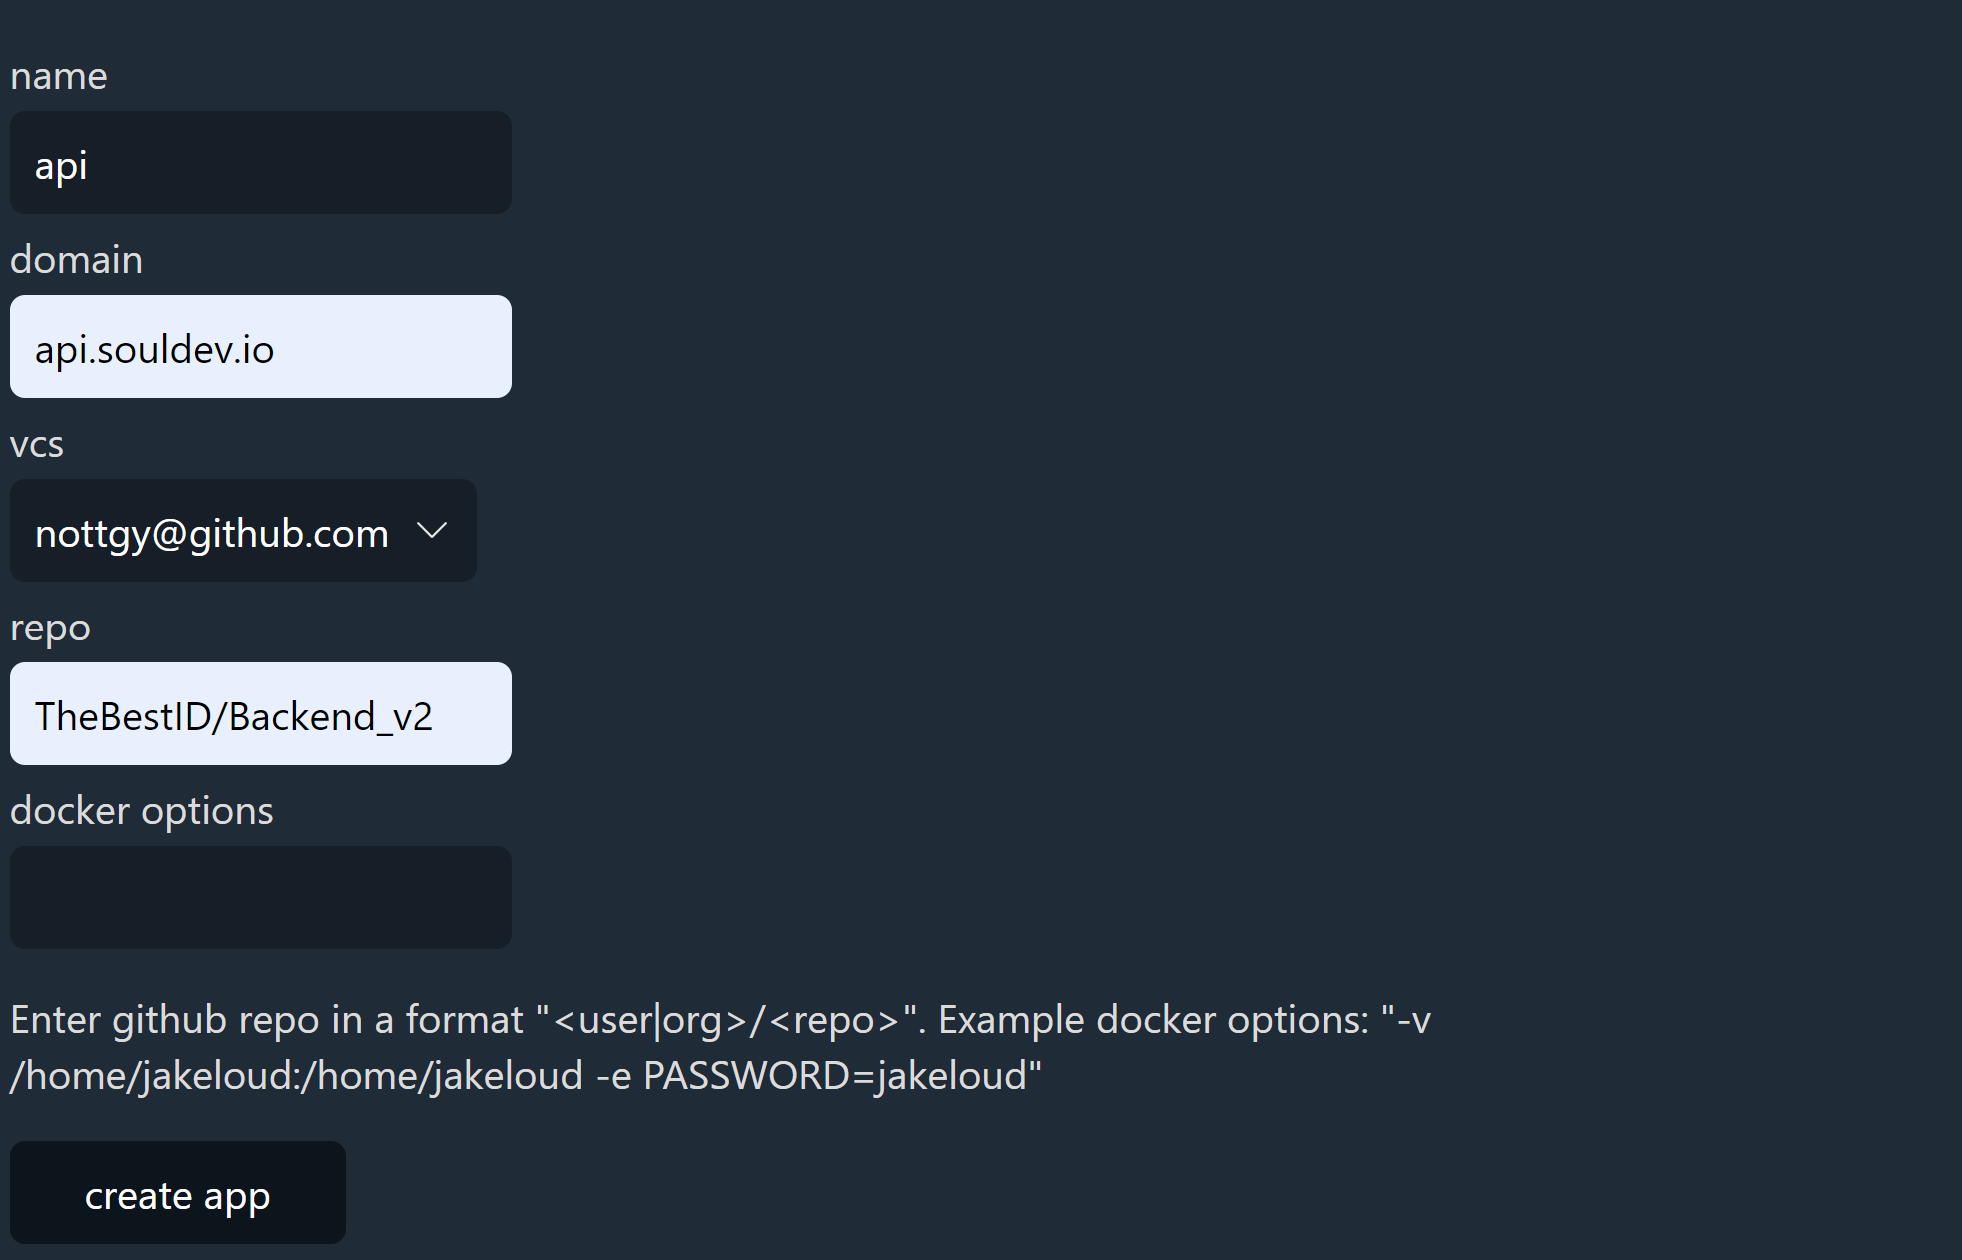
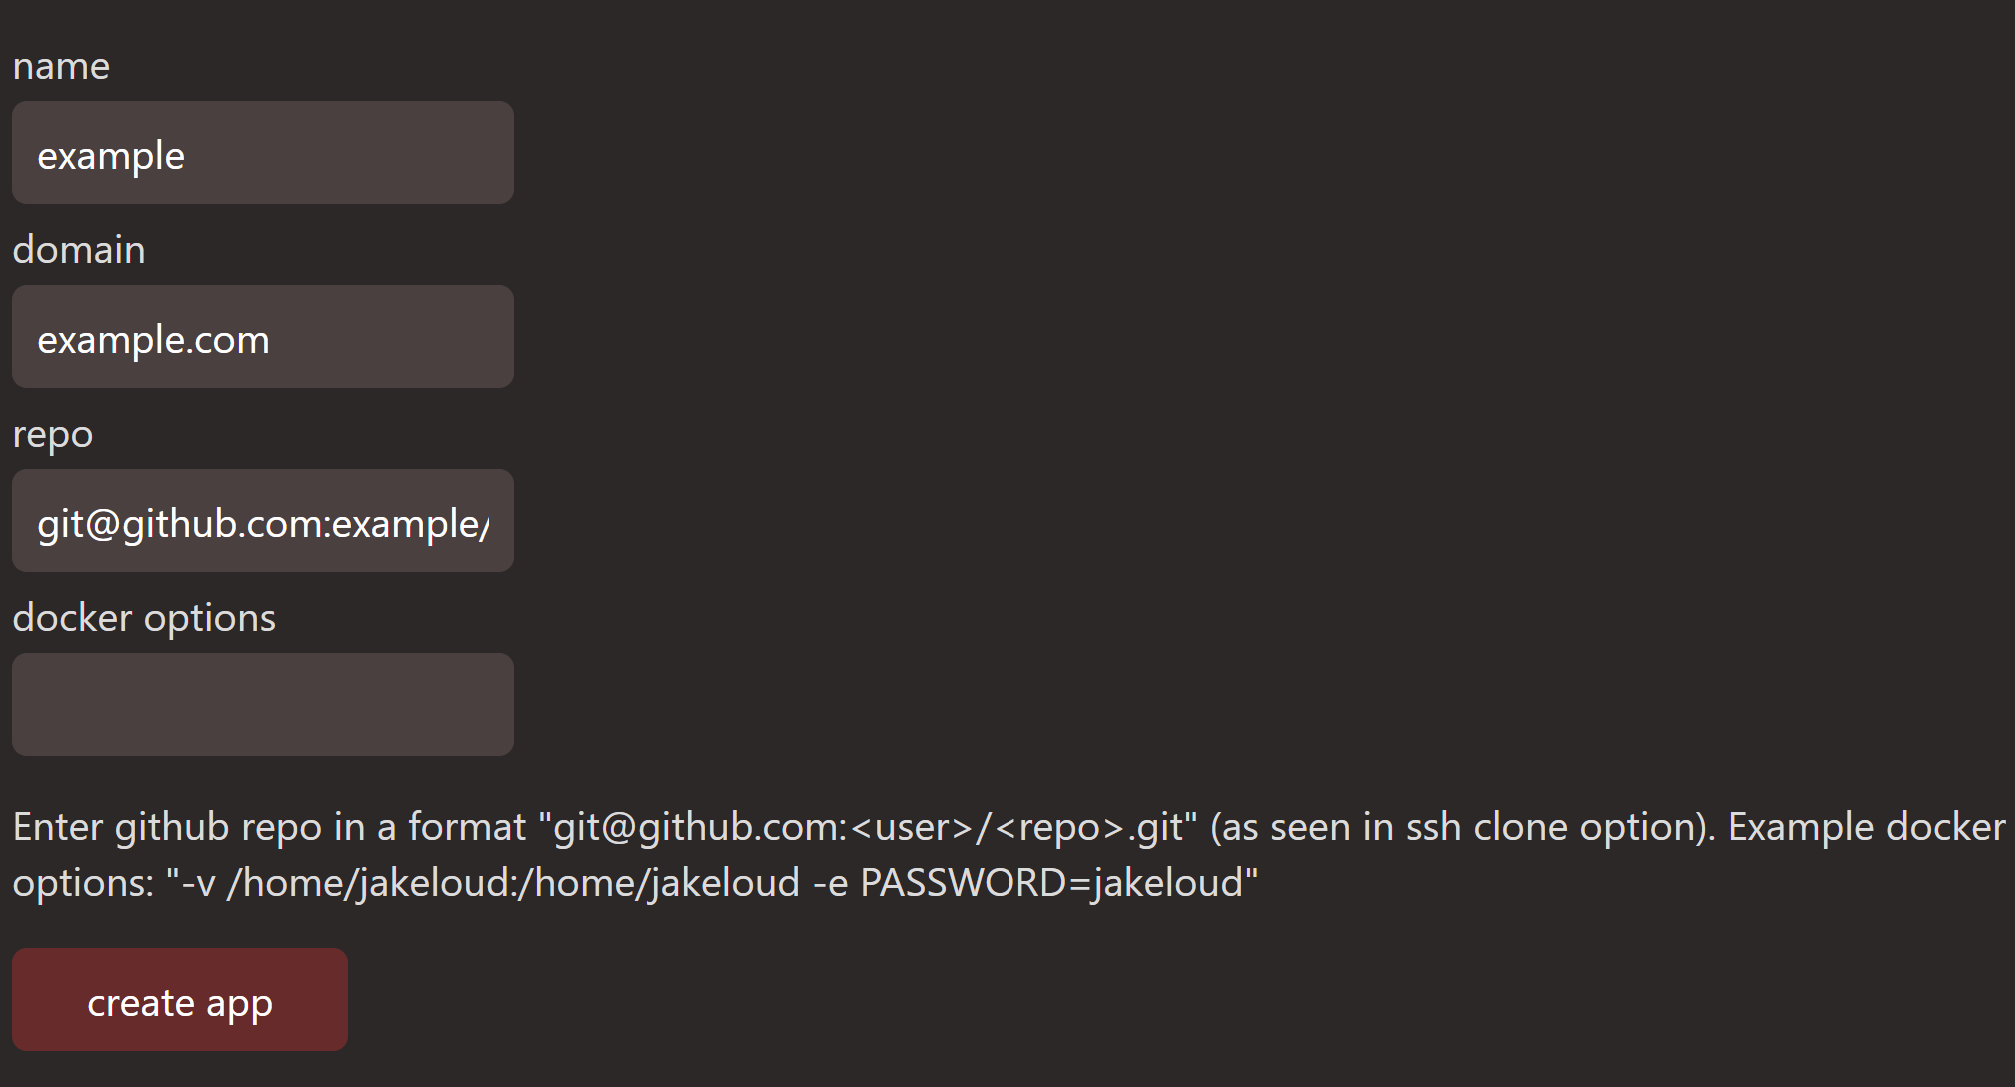
update docs

Changed region(s): [[0.0, 0.7286, 0.9949, 1.0], [0.0, 0.3947, 0.2798, 0.6983], [0.0, 0.0304, 0.2798, 0.3643]]

diff --git a/src/css/custom.css b/src/css/custom.css
@@ -6,25 +6,25 @@
 
 /* You can override the default Infima variables here. */
 :root {
-  --ifm-color-primary: #f0f;
-  --ifm-color-primary-dark: rgb(216, 0, 216);
-  --ifm-color-primary-darker: rgb(185, 0, 185);
-  --ifm-color-primary-darkest: rgb(177, 0, 177);
-  --ifm-color-primary-light: rgb(255, 28, 255);
-  --ifm-color-primary-lighter: rgb(255, 40, 255);
-  --ifm-color-primary-lightest: rgb(255, 70, 255);
+  --ifm-color-primary: #785138;
+  --ifm-color-primary-dark: #6c4932;
+  --ifm-color-primary-darker: #664530;
+  --ifm-color-primary-darkest: #543927;
+  --ifm-color-primary-light: #84593e;
+  --ifm-color-primary-lighter: #8a5d40;
+  --ifm-color-primary-lightest: #9c6949;
   --ifm-code-font-size: 95%;
   --docusaurus-highlighted-code-line-bg: rgba(0, 0, 0, 0.1);
 }
 
-/* For readability concerns, you should choose a lighter palette in dark mode. */
 [data-theme='dark'] {
-  --ifm-color-primary: #f0f;
-  --ifm-color-primary-dark: rgb(216, 0, 216);
-  --ifm-color-primary-darker: rgb(185, 0, 185);
-  --ifm-color-primary-darkest: rgb(177, 0, 177);
-  --ifm-color-primary-light: rgb(255, 28, 255);
-  --ifm-color-primary-lighter: rgb(255, 40, 255);
-  --ifm-color-primary-lightest: rgb(255, 70, 255);
+  --ifm-color-primary: #785138;
+  --ifm-color-primary-dark: #6c4932;
+  --ifm-color-primary-darker: #664530;
+  --ifm-color-primary-darkest: #543927;
+  --ifm-color-primary-light: #84593e;
+  --ifm-color-primary-lighter: #8a5d40;
+  --ifm-color-primary-lightest: #9c6949;
+  --ifm-background-color: #2d2828;
   --docusaurus-highlighted-code-line-bg: rgba(0, 0, 0, 0.3);
 }

diff --git a/docs/using-jakeloud/create-application.md b/docs/using-jakeloud/create-application.md
@@ -6,7 +6,7 @@ sidebar_position: 2
 
 Follow this simple process to deploy an app to the production.
 
-First make sure, that you have set up your git user.
+First make sure, that you have set up your ssh key.
 
 ## Click add app button
 
@@ -17,11 +17,10 @@ To start click <button class="button button--primary">add app</button> button in
 
 ## Input all information about an app
 
-**Name* **: name of docker container running your app. Should be unique.
+**Name* **: name of docker container running your app. Should be unique, and not `jakeloud` (it is reserved).
 *Docker container name rules apply*.  
-**Domain* **: domain of your app.  
-**vcs* **: select vcs, that has the repo of the app, from the dropdown.  
-**repo* **: repo of the app. In the format of `<user|org>/repo`.  
+**Domain* **: domain of your app. 
+**repo* **: repo of the app. In the format of `git@github.com:<user>/<repo>.git`.  
 **docker options**: this field is not required. You can input any `docker run` options.  
 For example: `-v /home/jakeloud:/home/jakeloud -e PASSWORD=jakeloud`
 

diff --git a/docs/experimental-features/multiple-users.md b/docs/experimental-features/multiple-users.md
@@ -12,7 +12,7 @@ However, at some point in time, you may want to add collaborators to your projec
 
 Tick checkbox `Registration allowed` in Jakeloud app settings.
 
-![admin panel](/img/empty-jakeloud.png)
+![settings panel](/img/settings-panel.png)
 
 :::danger
 
@@ -24,7 +24,4 @@ This will allow anyone to register. So make sure to switch it back, once you're 
 
 Owner of the Jakeloud app is the admin. Only admin can change global settings of Jakeloud.
 
-All other users have isolated access to the Jakeloud.
-So you won't be able to see their projects and they can't see your own projects.
-
-Despite this, they can technically delete or replace running projects by creating apps with the same name.
+All users have access to all projects, can delete them, update and create new ones.

diff --git a/docs/using-jakeloud/add-ssh-key.md b/docs/using-jakeloud/add-ssh-key.md
@@ -1,0 +1,28 @@
+---
+sidebar_position: 1
+---
+
+# Add SSH key
+
+This is an essential step to run or update apps.
+
+## Settings button
+
+To start click <button class="button button--primary">Settings</button> button in admin panel.
+
+![admin panel](/img/empty-jakeloud.png)
+
+You will see something like this.
+
+![settings panel](/img/settings-panel.png)
+
+Copy ssh key or click copy button.
+
+## Put SSH key into github
+
+1. Go to [github.com](http://github.com)
+2. Click icon of your user in top left corner
+3. Click `Settings` in the popup menu, that just appeared
+4. Click `SSH and GPG keys` button in the sidebar
+5. Click `New SSH key`
+6. Give it a title, paste key under `Key` and click `Add SSH key`

diff --git a/docs/intro.md b/docs/intro.md
@@ -29,9 +29,17 @@ Go to your server's ip address and input domain for jakeloud admin panel along w
 ### Register admin user
 
 In order to register, you have to setup ssl (so that password can be transmitted safely).
+
+:::note Unsure about that
 It is important to use the same email you used for domain configuration for admin user.
 
-![register admin](/img/register-admin.png)
+:::
+
+![register](/img/register.png)
+
+In case your session expired, you can log in again.
+
+![login](/img/login.png)
 
 In the end you will have admin panel like this:
 
